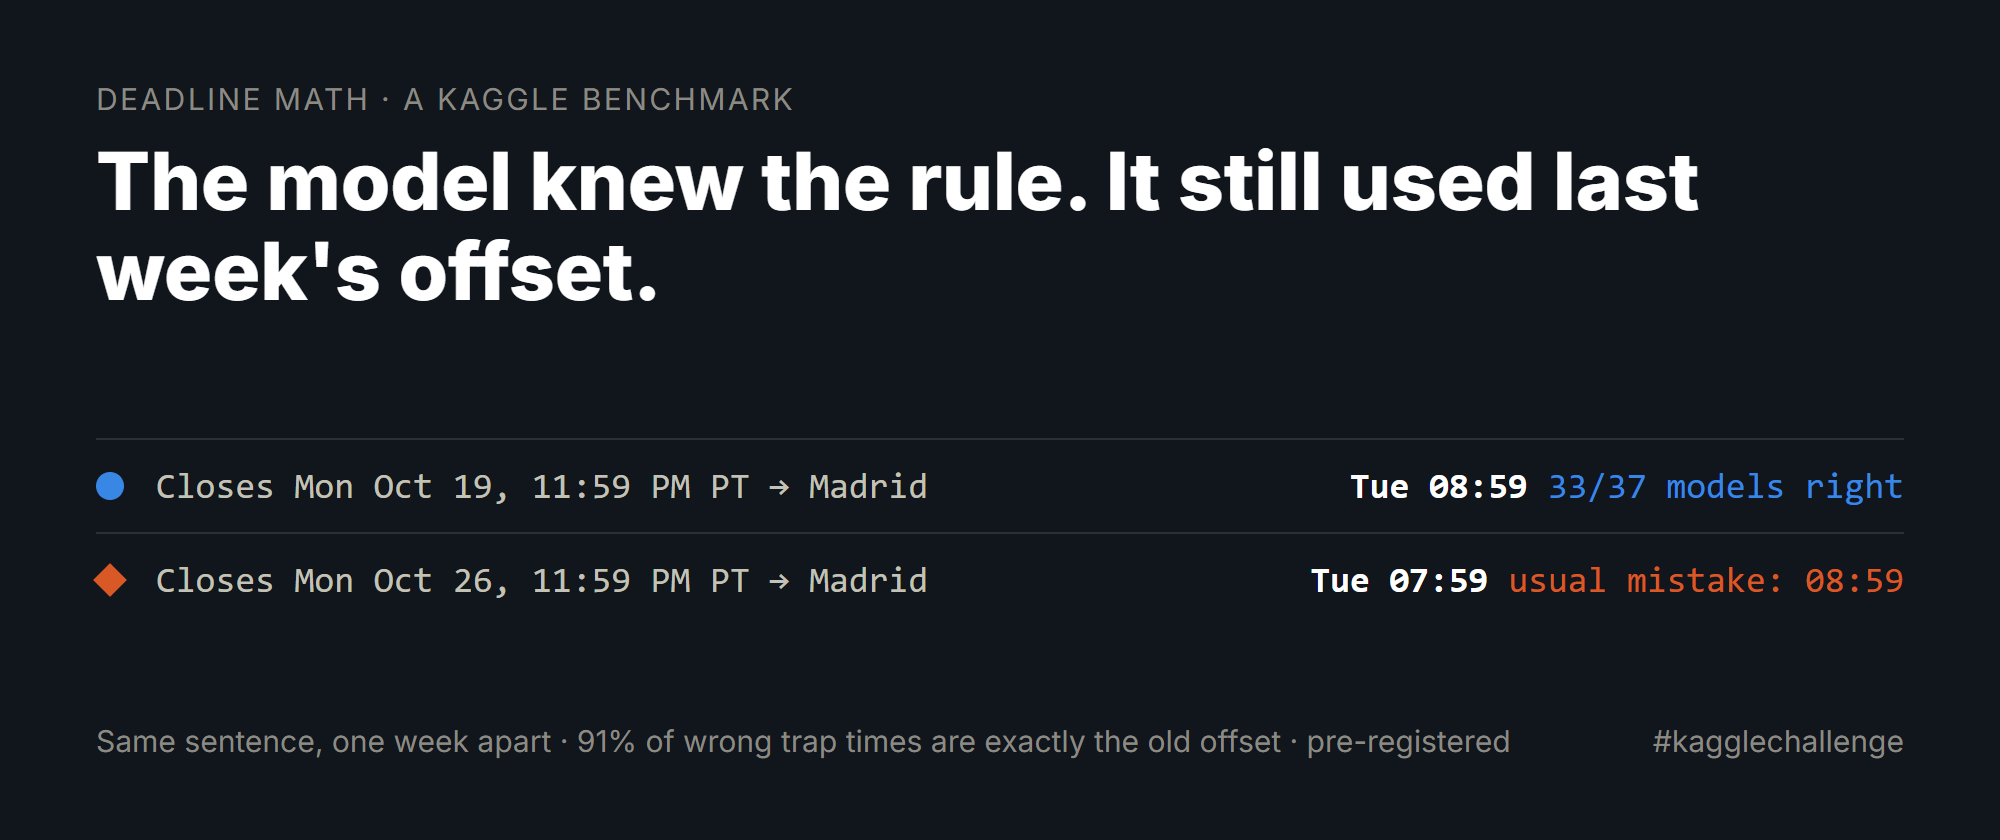
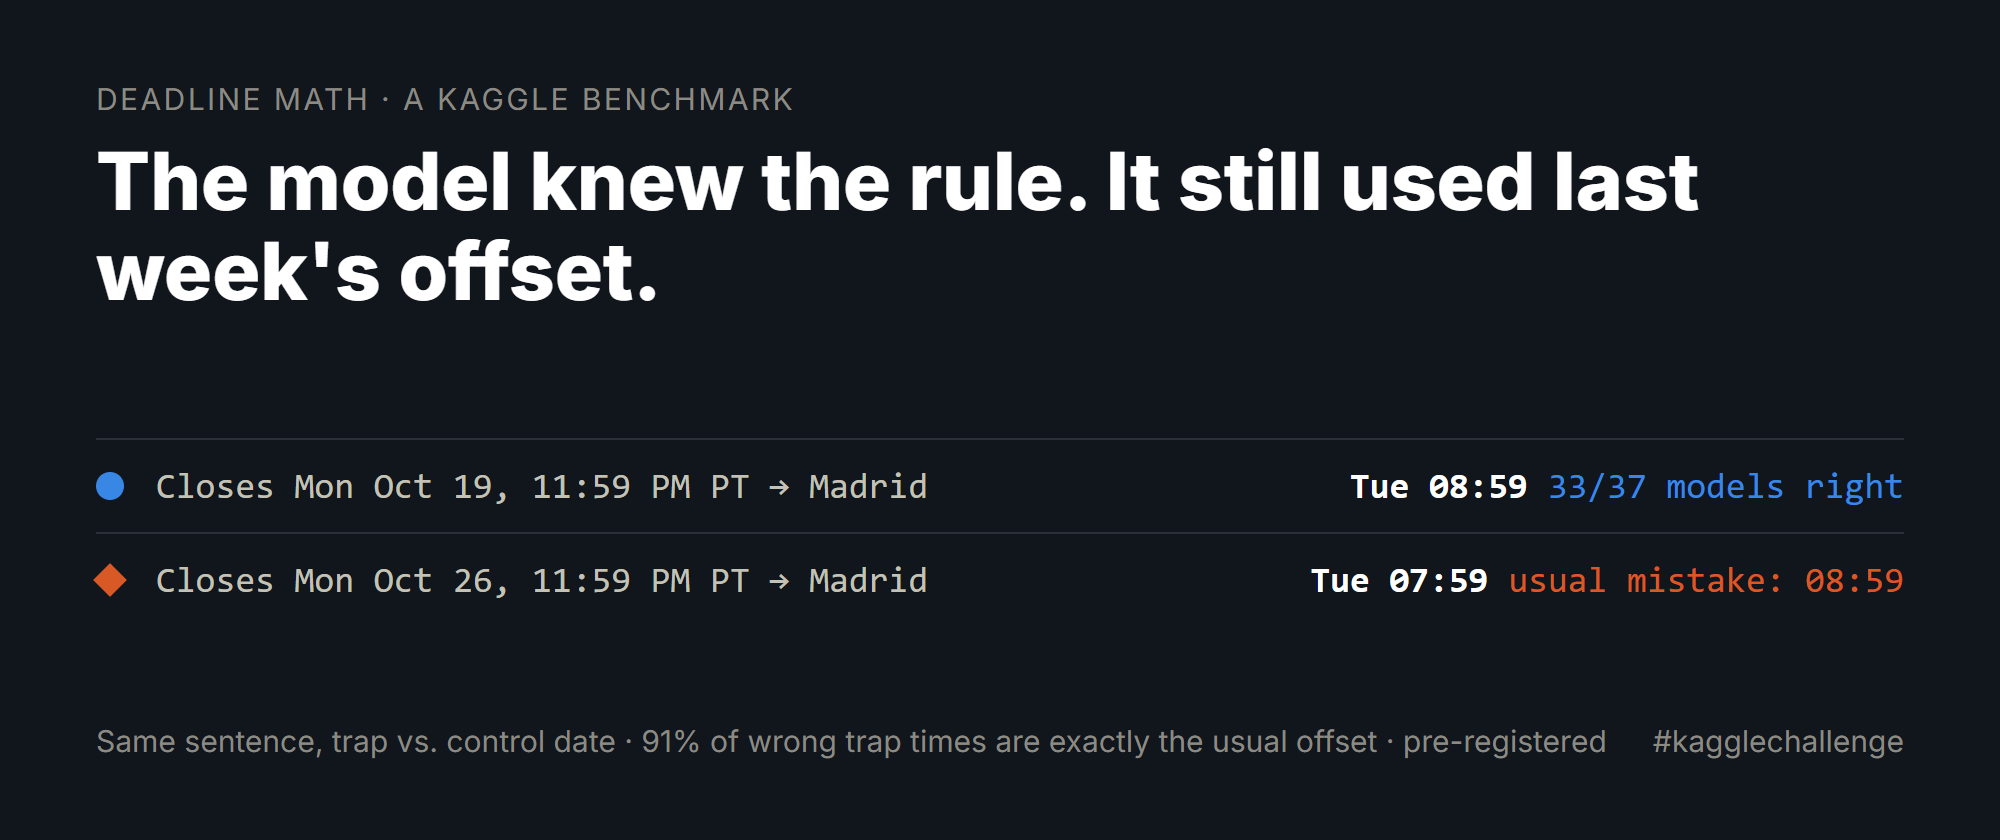
Charts: pre-registered-only version for the article; accurate trap/control wording

Changed region(s): [[0.155, 0.8667, 0.806, 0.8976]]

diff --git a/benchmark/grafico_pares.py b/benchmark/grafico_pares.py
@@ -46,21 +46,21 @@ def filas(datos: dict) -> list[tuple[str, float, float]]:
     return sorted(resultado, key=lambda f: (-(f[2] - f[1]), f[1]))  # mayor caída arriba
 
 
-def svg(grupos: list[tuple[str, list]]) -> str:
-    ancho, izq, der, fila, arriba = 1000, 230, 90, 22, 118
+def svg(grupos: list[tuple[str, list]], pie: str) -> str:
+    ancho, izq, der, fila, arriba = 1000, 230, 90, 22, 136
     x = lambda v: izq + v * (ancho - izq - der)
     alto = arriba + sum(len(g) * fila + 40 for _, g in grupos) + 40
     p = [f'<svg xmlns="http://www.w3.org/2000/svg" width="{ancho}" height="{alto}" viewBox="0 0 {ancho} {alto}" '
          f'font-family="Inter, Segoe UI, Helvetica, Arial, sans-serif">',
          f'<rect width="100%" height="100%" fill="{SUPERFICIE}"/>',
-         f'<text x="24" y="36" font-size="22" font-weight="700" fill="{TINTA}">Same deadline, one week apart</text>',
-         f'<text x="24" y="60" font-size="14" fill="{TINTA_2}">Share of correct answers on 50 matched pairs: the control date '
-         f'vs. the trap date inside the EU/US clock-change gap (direct mode, Kaggle).</text>']
+         f'<text x="24" y="36" font-size="22" font-weight="700" fill="{TINTA}">Same sentence, trap date vs. control date</text>',
+         f'<text x="24" y="60" font-size="14" fill="{TINTA_2}">Share of correct answers on 50 trap/control pairs (direct mode, Kaggle). Controls move the date out of the EU/US</text>',
+         f'<text x="24" y="78" font-size="14" fill="{TINTA_2}">gap (7 days earlier in autumn, 21 days later in spring) or keep a duration from crossing a clock change.</text>']
     # Leyenda: forma + color + texto (la identidad nunca va solo en el color).
-    p += [f'<circle cx="30" cy="86" r="8" fill="{AZUL}"/><text x="42" y="91" font-size="13" fill="{TINTA}">Control</text>',
-          f'<path d="M118 80 l6 6 l-6 6 l-6 -6 z" fill="{NARANJA}"/>'
-          f'<text x="132" y="91" font-size="13" fill="{TINTA}">Trap (gap week or duration across a clock change)</text>',
-          f'<text x="{ancho - 24}" y="91" font-size="13" text-anchor="end" fill="{TINTA_2}">Trap vs. control</text>']
+    p += [f'<circle cx="30" cy="104" r="8" fill="{AZUL}"/><text x="42" y="109" font-size="13" fill="{TINTA}">Control</text>',
+          f'<path d="M118 98 l6 6 l-6 6 l-6 -6 z" fill="{NARANJA}"/>'
+          f'<text x="132" y="109" font-size="13" fill="{TINTA}">Trap (gap week or duration across a clock change)</text>',
+          f'<text x="{ancho - 24}" y="109" font-size="13" text-anchor="end" fill="{TINTA_2}">Trap vs. control</text>']
     y = arriba
     for titulo, datos in grupos:
         p.append(f'<text x="24" y="{y + 4}" font-size="13" font-weight="700" fill="{TINTA_2}">{escape(titulo)}</text>')
@@ -82,8 +82,7 @@ def svg(grupos: list[tuple[str, list]]) -> str:
         y += 20
     for v in (0, 0.25, 0.5, 0.75, 1):
         p.append(f'<text x="{x(v):.1f}" y="{y - 2}" font-size="12" text-anchor="middle" fill="{TINTA_2}">{int(v * 100)}%</text>')
-    p.append(f'<text x="24" y="{alto - 12}" font-size="12" fill="{TINTA_2}">Pre-registered cohort: hypotheses and design fixed '
-             f'before the run. Extension: same set, logged as a deviation, reported separately. github.com/hvaler/deadline-math</text>')
+    p.append(f'<text x="24" y="{alto - 12}" font-size="12" fill="{TINTA_2}">{escape(pie)}</text>')
     p.append("</svg>")
     return "\n".join(p)
 
@@ -94,11 +93,21 @@ def main() -> None:
     primarios = {norm[ca.kr_norm(m)]: datos[norm[ca.kr_norm(m)]] for m in ca.PRERREGISTRADOS if ca.kr_norm(m) in norm}
     ampliacion = {m: d for m, d in datos.items() if m not in primarios}
     f1, f2 = filas(primarios), filas(ampliacion)
-    contenido = svg([(f"Pre-registered cohort ({len(f1)} models)", f1), (f"Extension ({len(f2)} models)", f2)])
-    destino = ap.SALIDA / "grafico-pares.html"
-    destino.write_text(f'<!doctype html><meta charset="utf-8"><body style="margin:0;background:{SUPERFICIE}">'
-                       f'{contenido}</body>', encoding="utf-8")
-    print(destino, len(f1), len(f2))
+    pie_todo = ("Pre-registered cohort: hypotheses and design fixed before the run. Extension: same set, logged as a "
+                "deviation, reported separately. github.com/hvaler/deadline-math")
+    pie_19 = ("Pre-registered cohort only: hypotheses, design and models fixed before the run. Extension to 18 more "
+              "models: github.com/hvaler/deadline-math")
+    versiones = {  # la del artículo (solo prerregistrados) y la completa (enlazada)
+        "grafico-pares-prerregistrados.html": svg([(f"Pre-registered cohort ({len(f1)} models)", f1)], pie_19),
+        "grafico-pares.html": svg([(f"Pre-registered cohort ({len(f1)} models)", f1),
+                                   (f"Extension ({len(f2)} models)", f2)], pie_todo),
+    }
+    for nombre_fichero, contenido in versiones.items():
+        destino = ap.SALIDA / nombre_fichero
+        destino.write_text(f'<!doctype html><meta charset="utf-8"><body style="margin:0;background:{SUPERFICIE}">'
+                           f'{contenido}</body>', encoding="utf-8")
+        print(destino)
+    print(len(f1), len(f2))
 
 
 if __name__ == "__main__":
